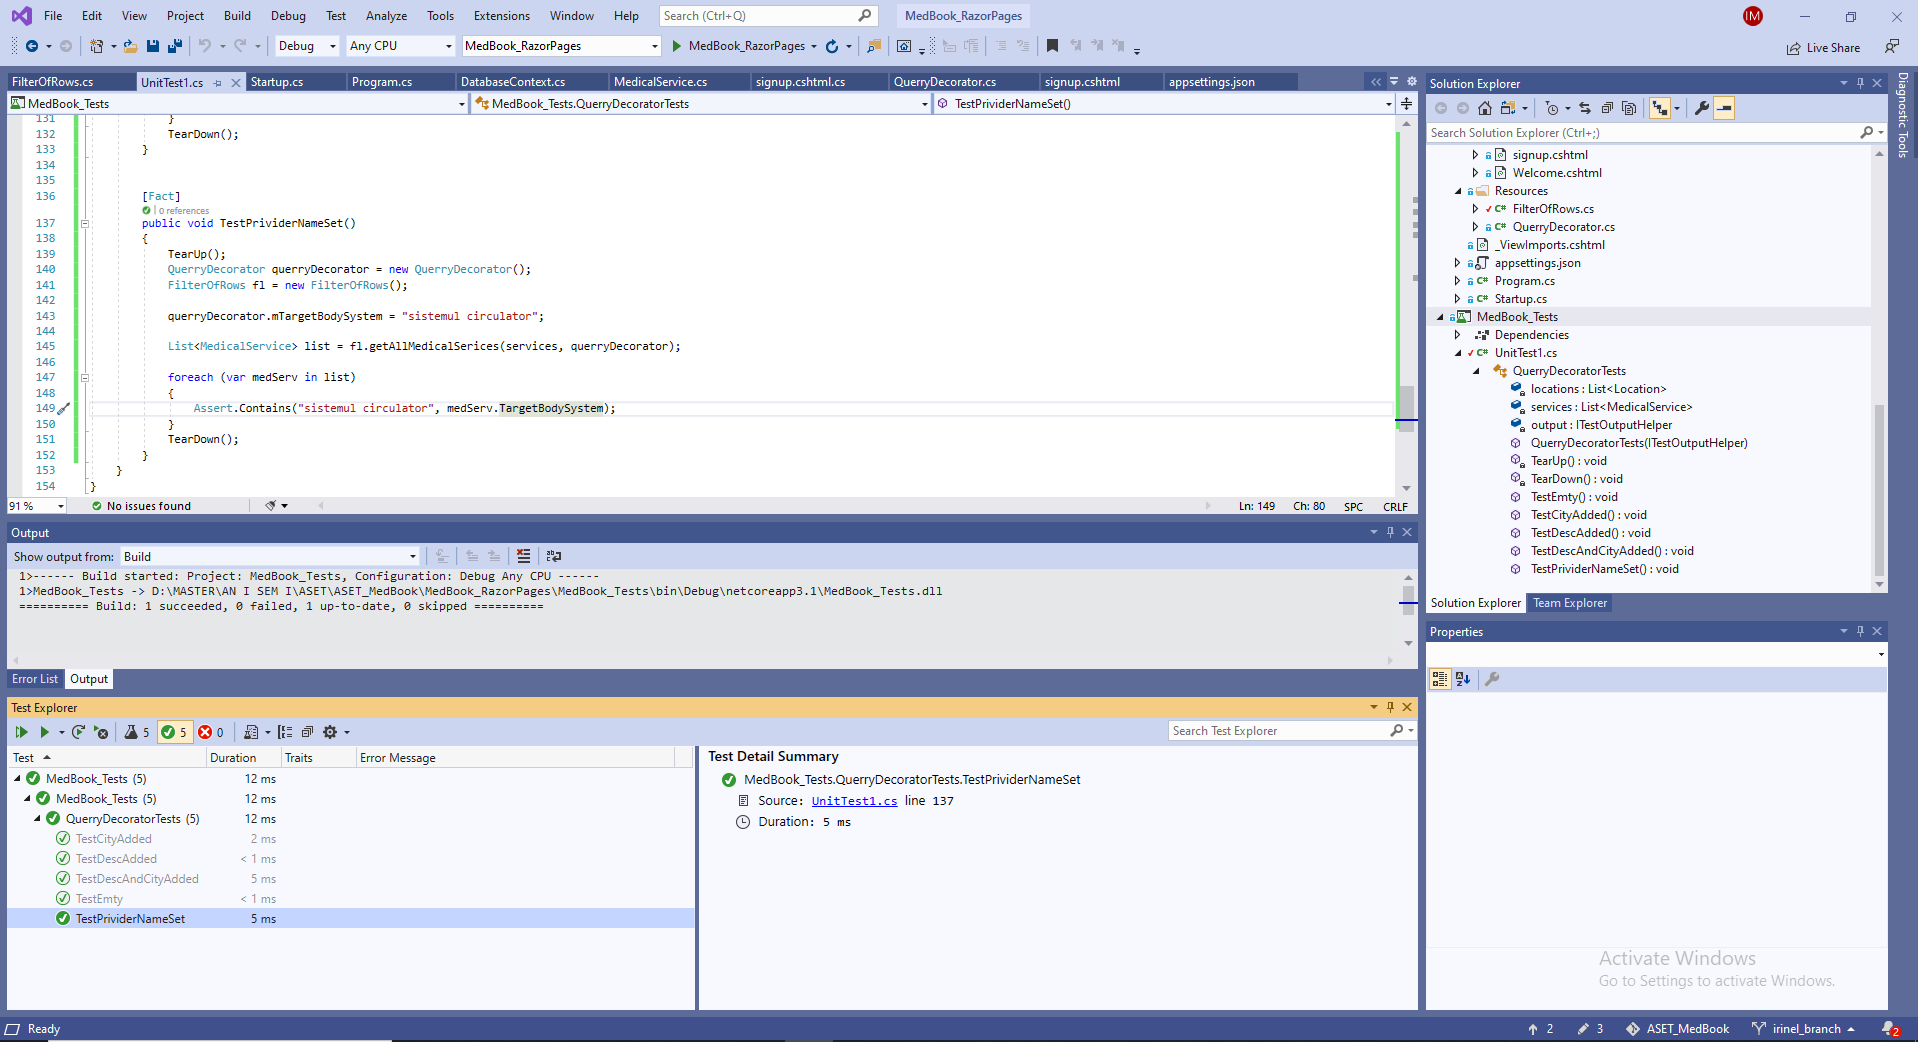
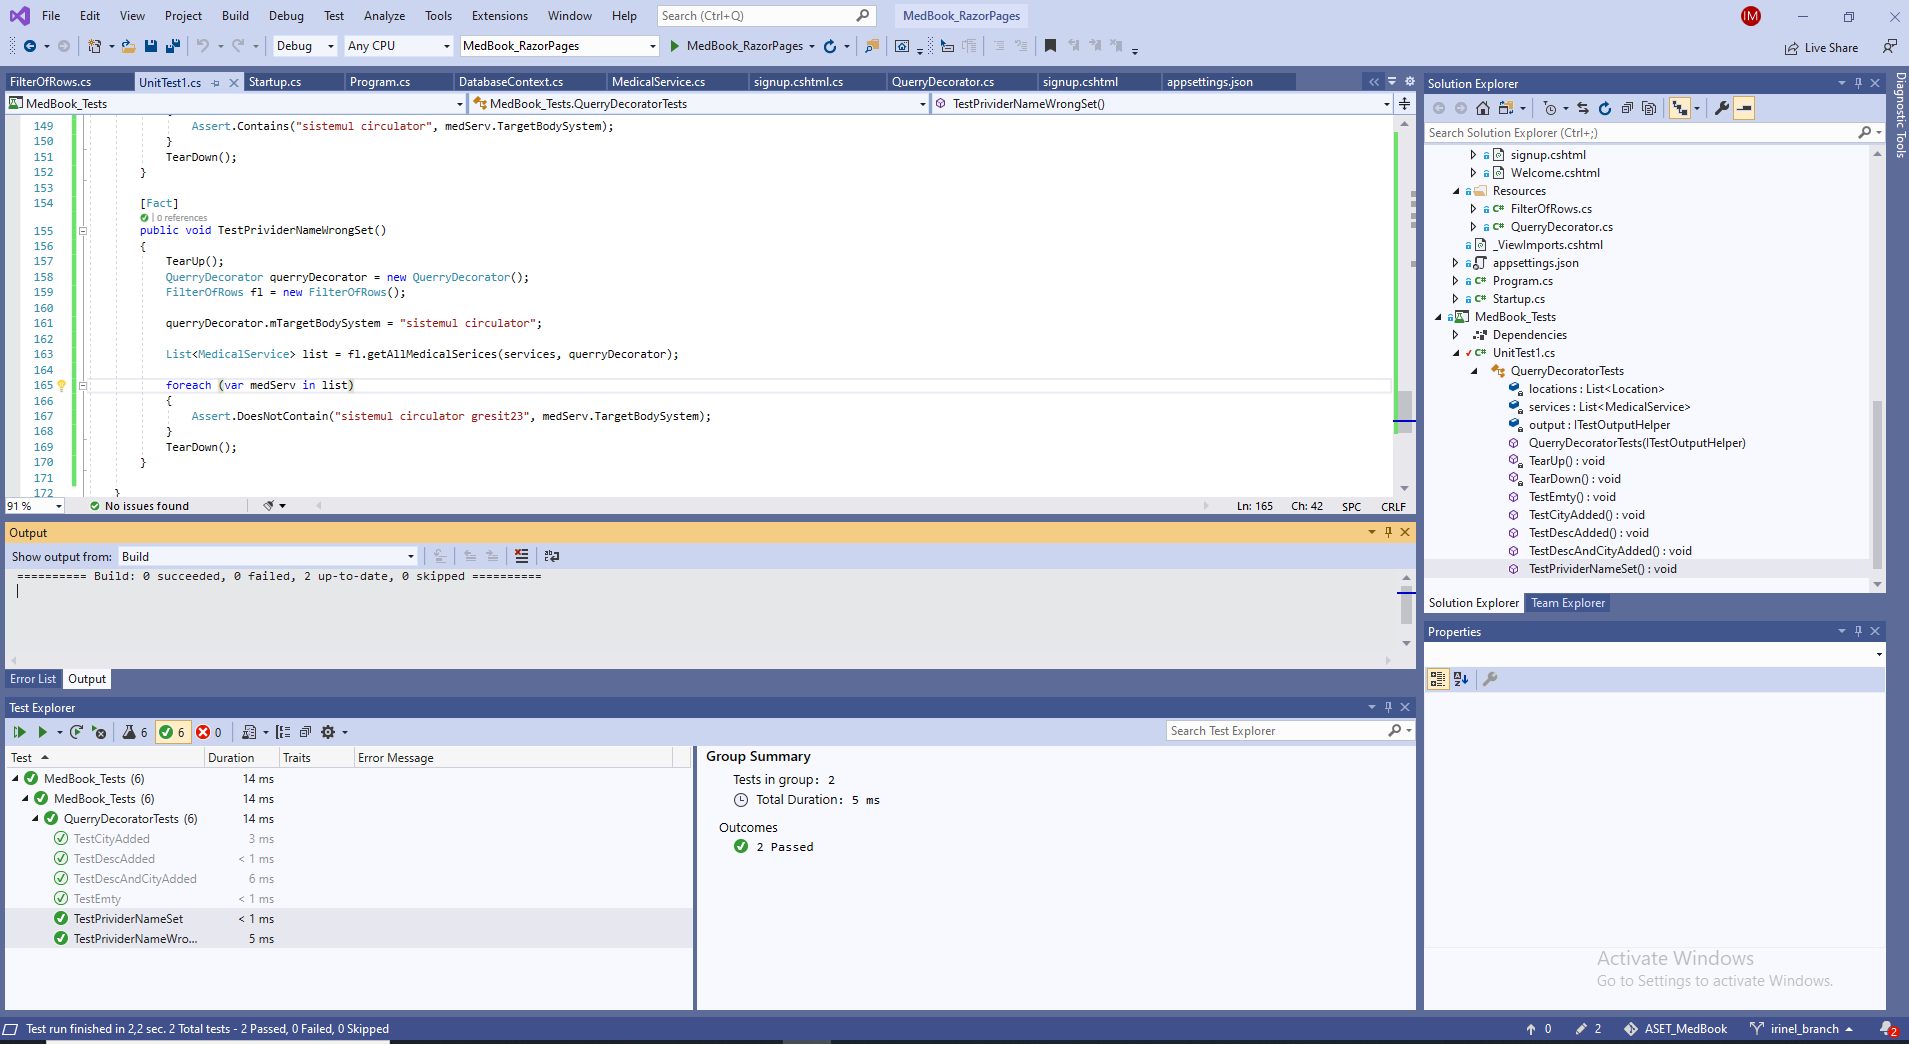
modified second iteration

diff --git a/MedBook_RazorPages/MedBook_Tests/UnitTest1.cs b/MedBook_RazorPages/MedBook_Tests/UnitTest1.cs
@@ -150,5 +150,24 @@ namespace MedBook_Tests
             }
             TearDown();
         }
+
+        [Fact]
+        public void TestPrividerNameWrongSet()
+        {
+            TearUp();
+            QuerryDecorator querryDecorator = new QuerryDecorator();
+            FilterOfRows fl = new FilterOfRows();
+
+            querryDecorator.mTargetBodySystem = "sistemul circulator";
+
+            List<MedicalService> list = fl.getAllMedicalSerices(services, querryDecorator);
+
+            foreach (var medServ in list)
+            {
+                Assert.DoesNotContain("sistemul circulator gresit23", medServ.TargetBodySystem);
+            }
+            TearDown();
+        }
+
     }
 }
